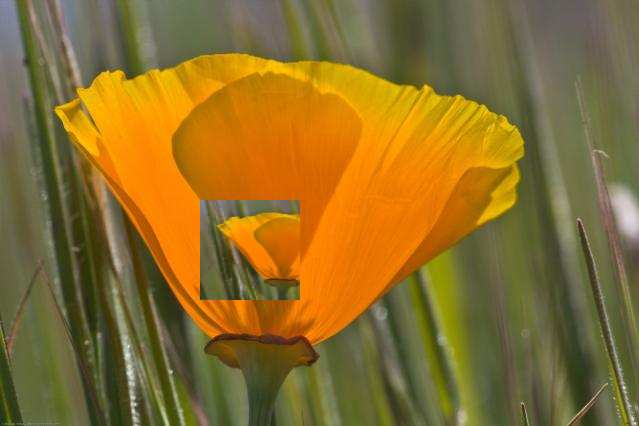
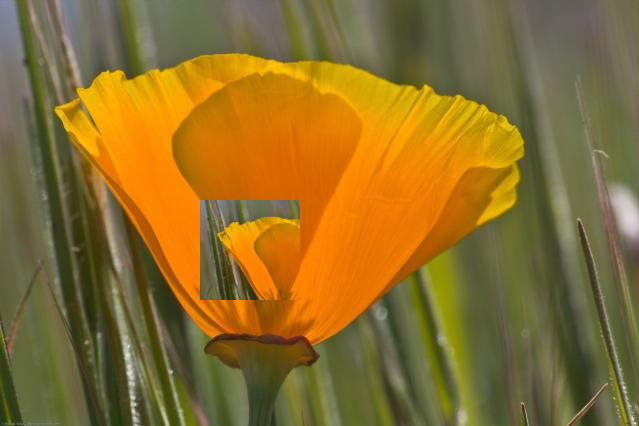
Improved tests.

Changed region(s): [[0.2973, 0.4883, 0.4757, 0.7019]]

diff --git a/Kean.Tests/Draw/OpenGL/Canvas.cs b/Kean.Tests/Draw/OpenGL/Canvas.cs
@@ -52,6 +52,7 @@ namespace Kean.Draw.OpenGL.Test
 				this.DrawImageOnPosition,
 				this.DrawImageOnRegion,
 				this.DrawImageUsingMapping,
+				this.DrawImageUsingMappingTwice,
 				this.Blend,
 				this.DrawColorRegionWithClipping,
 				this.DrawImageOnRegionWithClipping,
@@ -122,9 +123,9 @@ namespace Kean.Draw.OpenGL.Test
 		{
 			using (Draw.Image image = this.image.Copy())
 			using (Draw.Image part = Raster.Bgra.OpenResource("Draw.OpenGL.Input.Flower.jpg"))
-			using (Draw.Image resized = part.ResizeTo(new Geometry2D.Integer.Size(100, 100)).Convert<Raster.Bgra>())
+			using (Draw.Image resized = part.ResizeWithin(new Geometry2D.Integer.Size(300, 300)))
 			{
-				image.Canvas.Draw(resized, new Geometry2D.Single.Point(500, 200));
+				image.Canvas.Draw(resized, new Geometry2D.Single.Point(300, 200));
 				Verify(image, "Draw.OpenGL.Correct.Bgra.DrawImageOnPosition.png");
 			}
 		}
@@ -133,9 +134,9 @@ namespace Kean.Draw.OpenGL.Test
 		{
 			using (Draw.Image image = this.image.Copy())
 			using (Draw.Image part = Raster.Bgra.OpenResource("Draw.OpenGL.Input.Flower.jpg"))
-			using (Draw.Image resized = part.ResizeTo(new Geometry2D.Integer.Size(100, 100)).Convert<Raster.Bgra>())
+			using (Draw.Image resized = part.ResizeWithin(new Geometry2D.Integer.Size(300, 300)))
 			{
-				image.Canvas.Draw(resized, new Geometry2D.Single.Box(0, 0, 50, 100), new Geometry2D.Single.Box(200, 200, 100, 100));
+				image.Canvas.Draw(resized, new Geometry2D.Single.Box(0, 0, 150, 150), new Geometry2D.Single.Box(200, 200, 100, 100));
 				Verify(image, "Draw.OpenGL.Correct.Bgra.DrawImageOnRegion.png");
 			}
 		}
@@ -149,6 +150,30 @@ namespace Kean.Draw.OpenGL.Test
 			{
 				image.Canvas.Draw(map, resized, new Geometry2D.Single.Point(300, 200));
 				Verify(image, "Draw.OpenGL.Correct.Bgra.DrawImageUsingMapping.png");
+			}
+		}
+		[Test]
+		public void DrawImageUsingMappingTwice()
+		{
+			using (Draw.Image part = Raster.Bgra.OpenResource("Draw.OpenGL.Input.Flower.jpg"))
+			using (Draw.Image resized = part.ResizeWithin(new Geometry2D.Integer.Size(300, 300)))
+			using (Draw.Map map = OpenGL.Map.Create(@"uniform sampler2D texture; void main() { vec4 value = texture2D(texture, gl_TexCoord[0].xy); gl_FragColor = vec4(1.0 - value.z, 1.0 - value.y, 1.0 - value.x, 1.0); }"))
+			{
+				using (Draw.Image image = this.image.Copy())
+				{
+					image.Canvas.Draw(map, resized, new Geometry2D.Single.Point(300, 200));
+					Verify(image, "Draw.OpenGL.Correct.Bgra.DrawImageUsingMapping.png");
+				}
+				using (Draw.Image image = this.image.Copy())
+				{
+					image.Canvas.Draw(resized, new Geometry2D.Single.Point(300, 200));
+					Verify(image, "Draw.OpenGL.Correct.Bgra.DrawImageOnPosition.png");
+				}
+				using (Draw.Image image = this.image.Copy())
+				{
+					image.Canvas.Draw(map, resized, new Geometry2D.Single.Point(300, 200));
+					Verify(image, "Draw.OpenGL.Correct.Bgra.DrawImageUsingMapping.png");
+				}
 			}
 		}
 		[Test]
